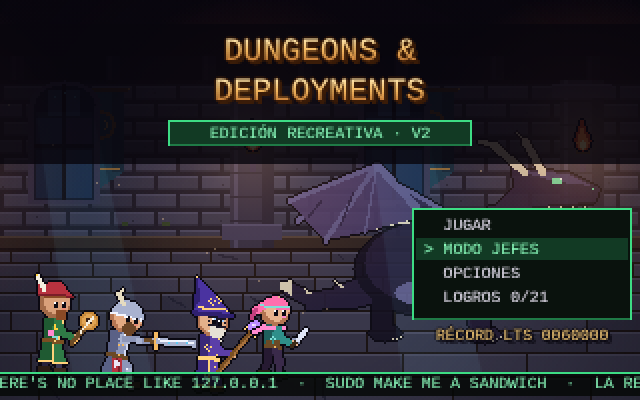
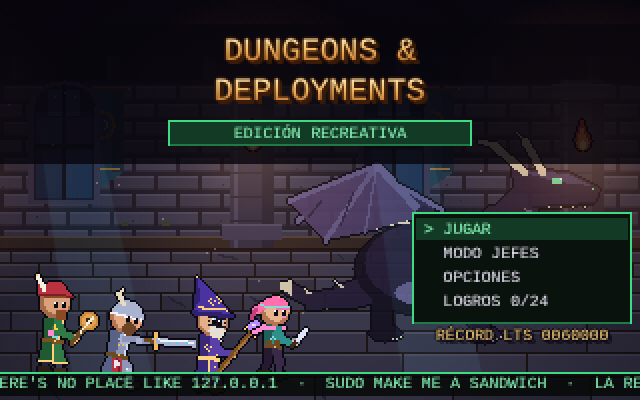
Quita «V2» de la pantalla de título
- El título dice «EDICIÓN RECREATIVA»
- Rehace la captura del título y la vista previa para redes

Changed region(s): [[0.625, 0.51, 1.0, 0.81], [0.3125, 0.3, 0.6875, 0.36]]

diff --git a/js/render/draw.js b/js/render/draw.js
@@ -443,7 +443,7 @@ function drawTitle(){
   ctx.fillStyle = 'rgba(8,6,14,.82)'; ctx.fillRect(0, 12, W, 70);
   goldText('DUNGEONS &', 160, 18, true);
   goldText('DEPLOYMENTS', 160, 38, true);
-  panel(84, 60, 152, 13, '#123a24'); txt('EDICIÓN RECREATIVA · V2', 160, 63, NEONT, { center:true });
+  panel(84, 60, 152, 13, '#123a24'); txt('EDICIÓN RECREATIVA', 160, 63, NEONT, { center:true });
   blit(rigSprite('bardo', (t >> 5) % 2 ? 'idle1' : 'idle0'), 26, 186, 1, 40, 80, false);
   blit(rigSprite('guerrero', (t >> 5) % 2 ? 'idle0' : 'atk1b'), 58, 192, 1, 40, 80, false);
   blit(rigSprite('mago', (t >> 5) % 2 ? 'special' : 'idle1'), 104, 194, 1, 40, 80, false);

diff --git a/CHANGELOG.md b/CHANGELOG.md
@@ -9,6 +9,7 @@ Los cambios visibles de cada versión. El formato sigue [Keep a Changelog](https
 - La CI prueba también **Firefox** y **WebKit** (el motor de Safari), con una selección corta de partidas.
 
 ### Cambiado
+- La pantalla de título dice «EDICIÓN RECREATIVA», sin «V2», y la vista previa al compartir el enlace se ha rehecho con el título actual.
 - El Kraken del Clúster tiene mecánica propia: su CONTROL PLANE tiene un *taint* y solo recibe daño con los dos nodos caídos a la vez.
 
 ## [0.7.0] - 2026-10-28
